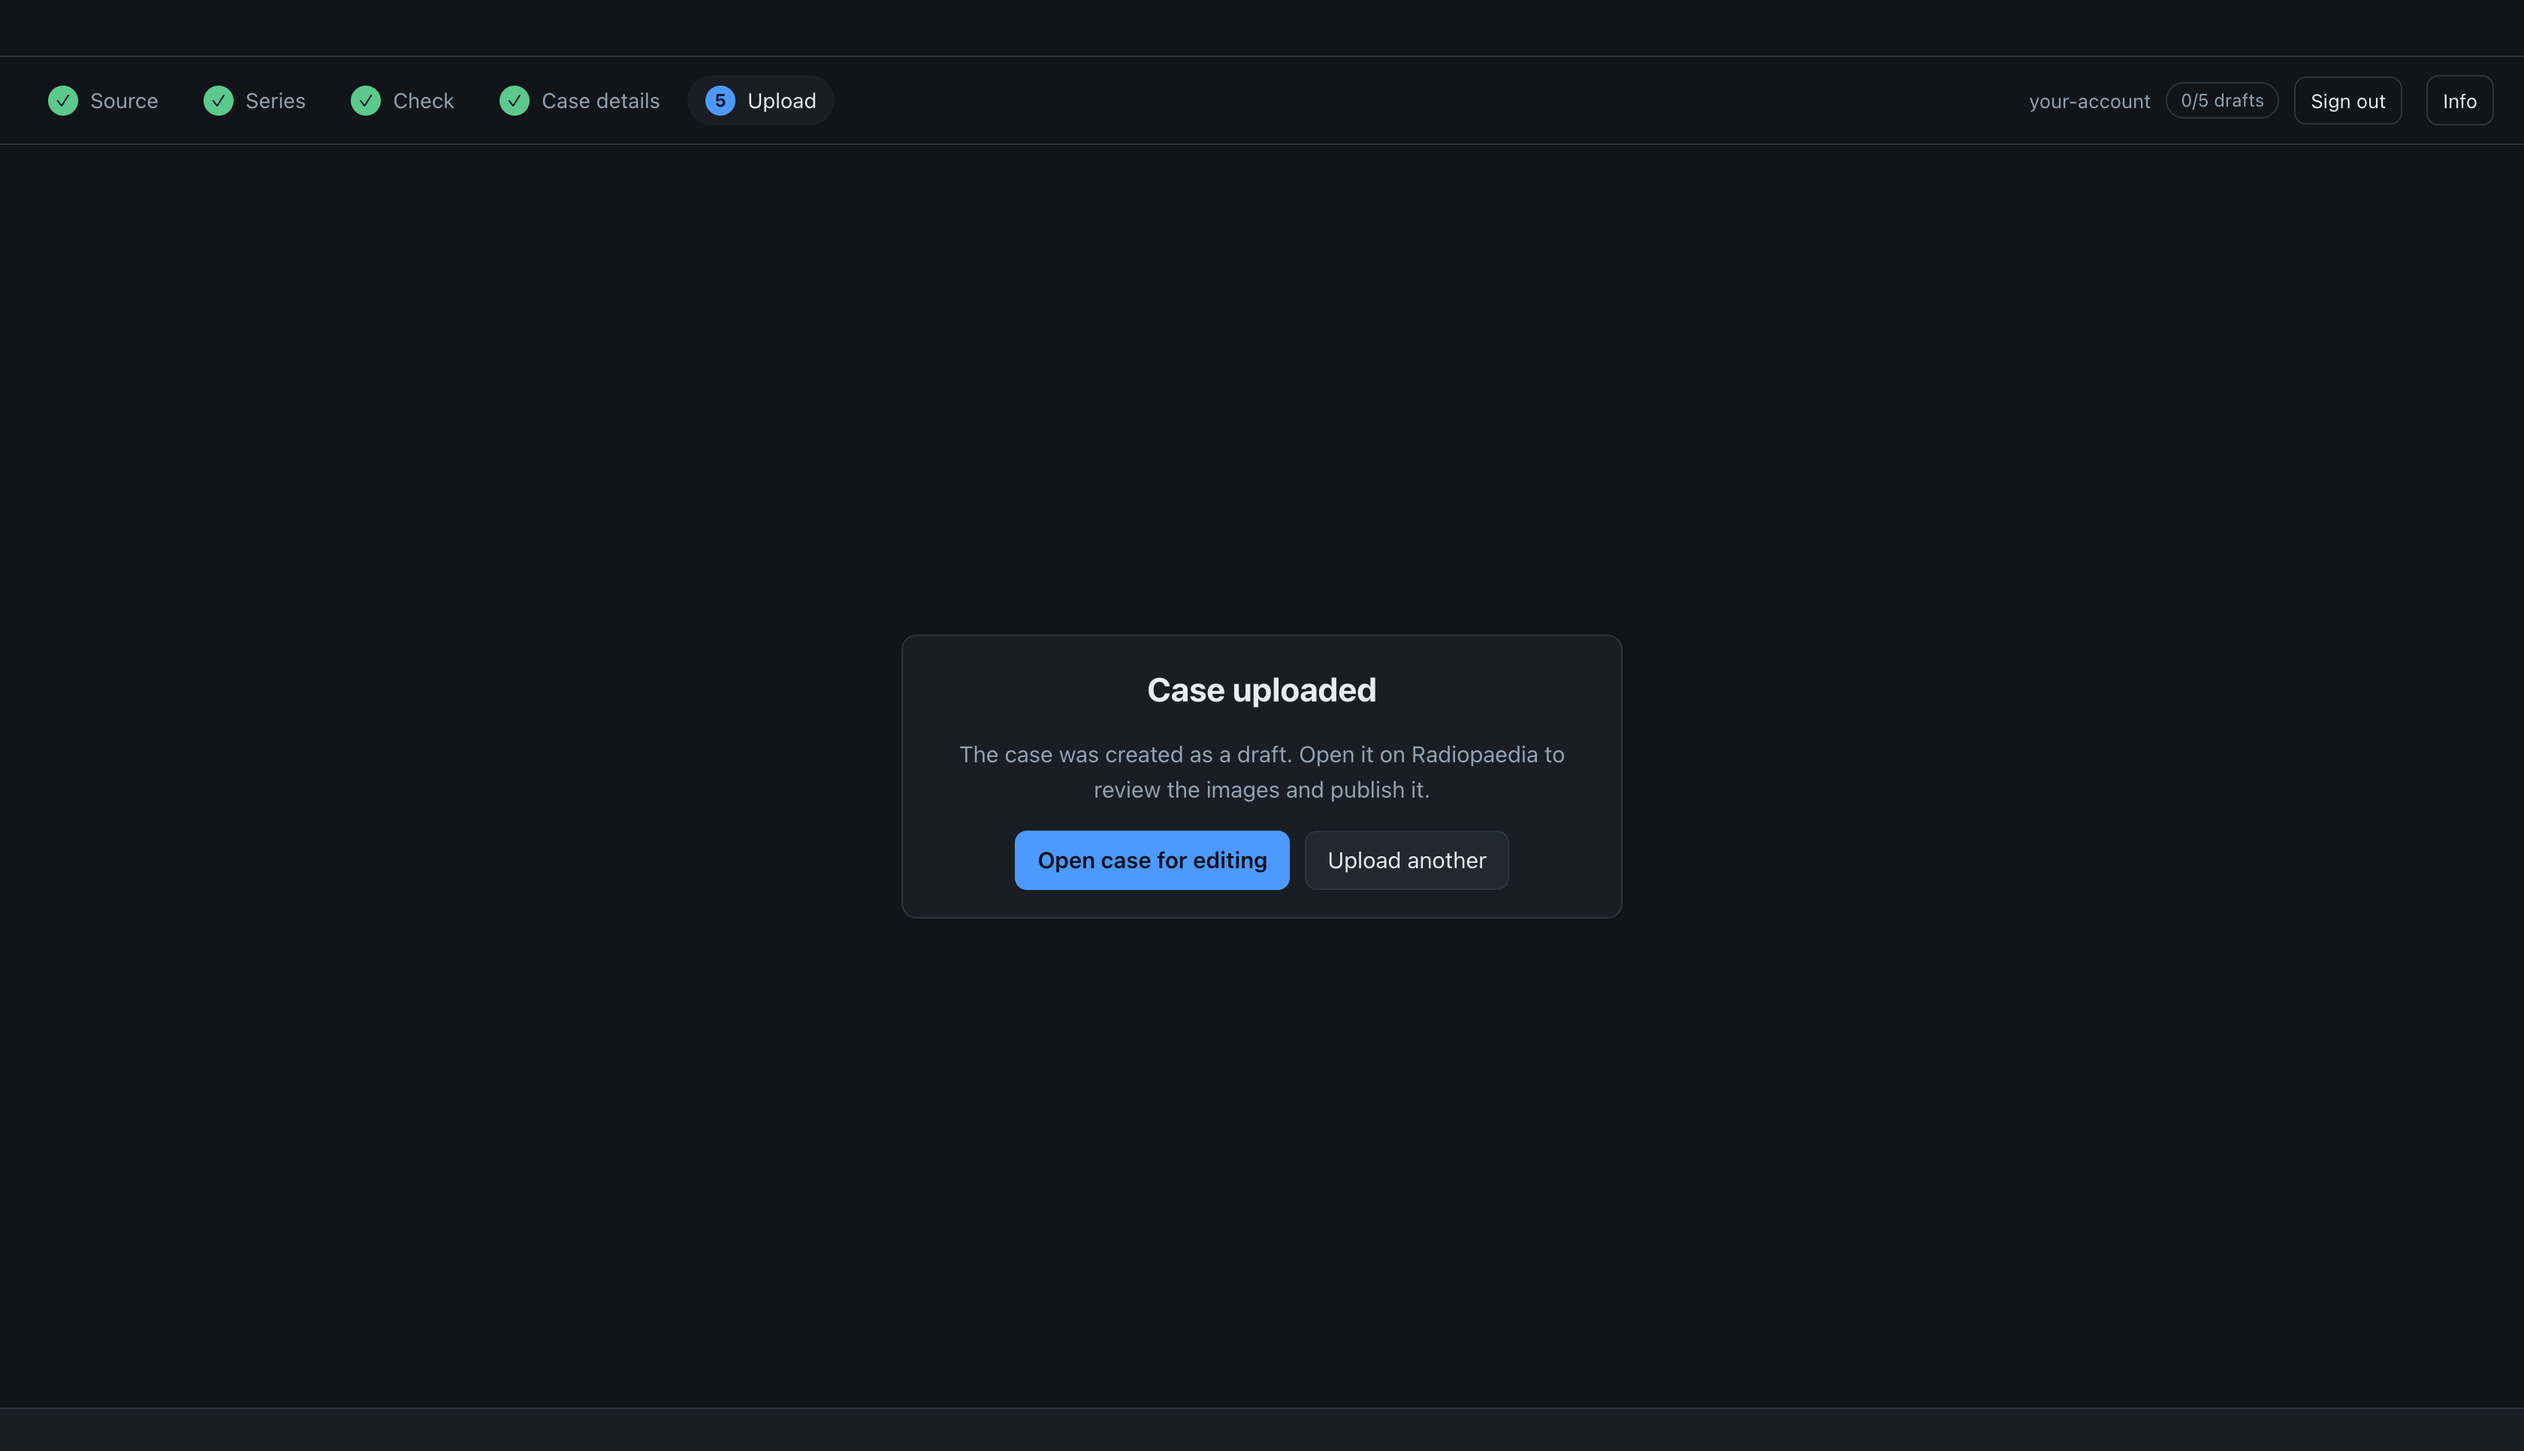
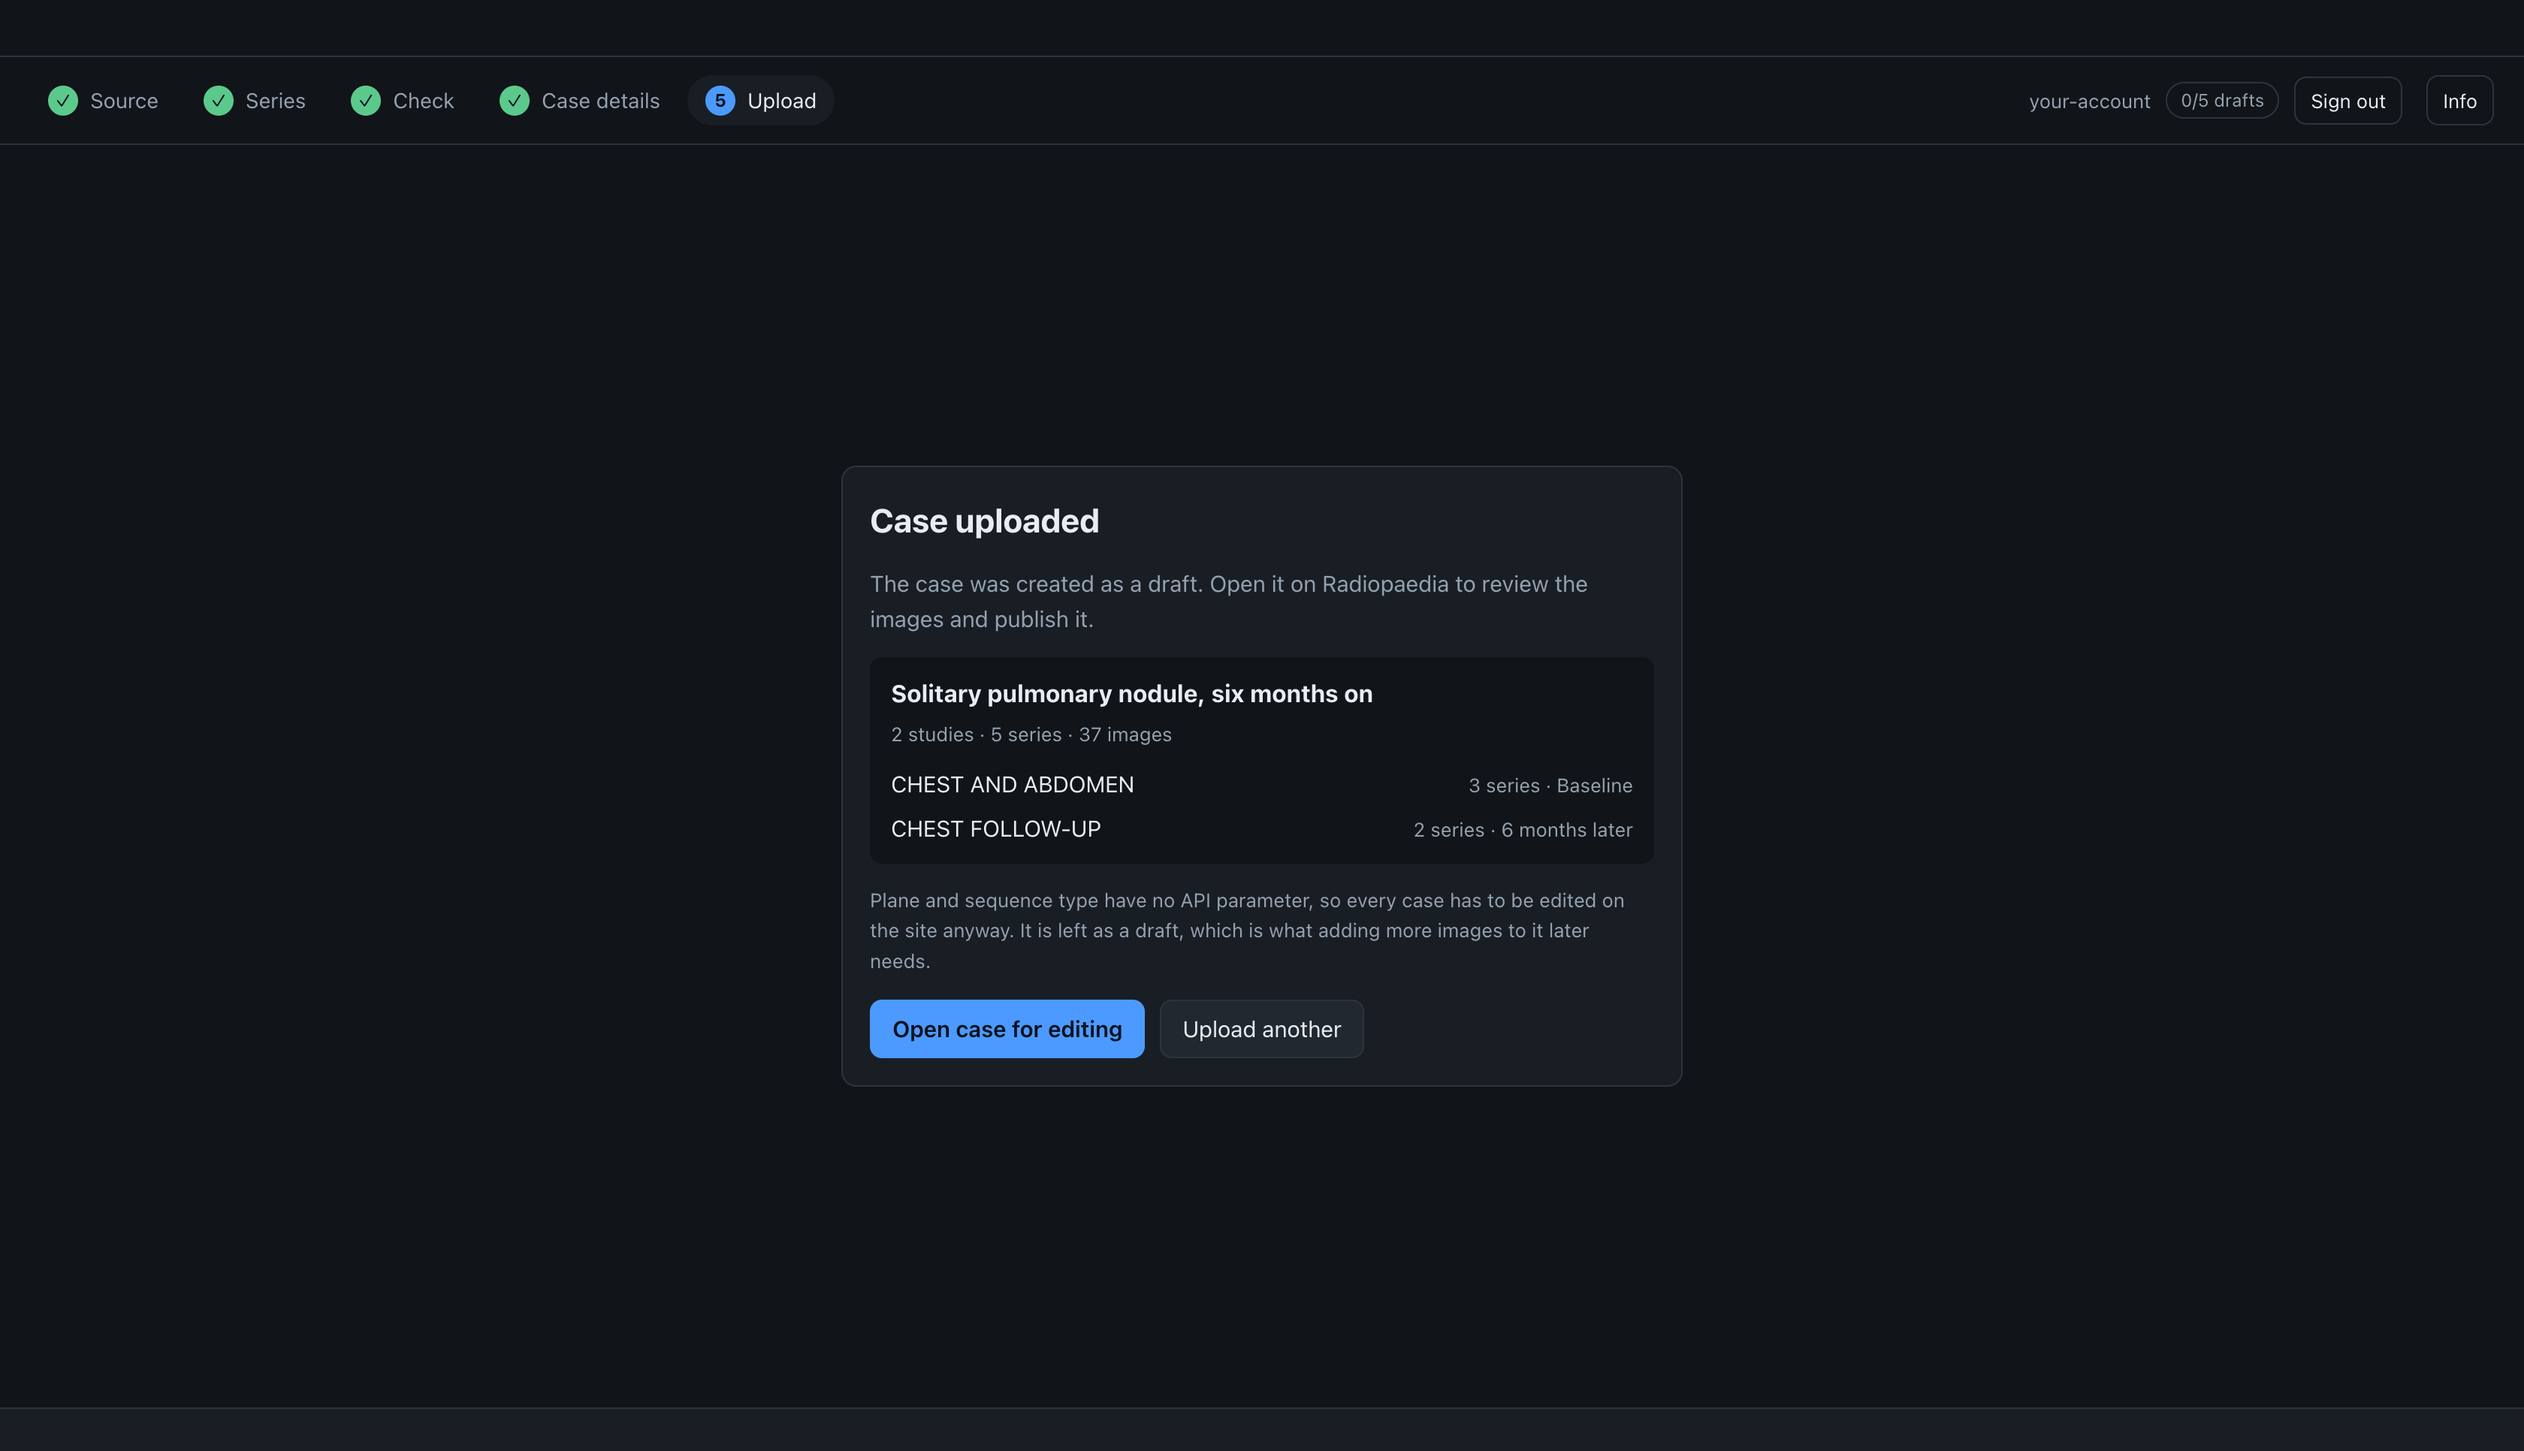
Say what went up on the screen that says it went
"Case uploaded", two buttons, and an otherwise empty window. Somebody who has
just sent the fourth case of an afternoon cannot tell from that which one they
sent, and the app knew: the title, the studies by name with the interval each
carries, and how many series and images went with them.

No byte count and no elapsed time, though both were on the list. A run's last
progress event can arrive after the run's own reply — the two cross the bridge
by different routes and nothing orders them — so a total read at that moment
can be short by a file, and a figure that is nearly right is worse than none.
The counts here come from the selection, which is not going anywhere.

The card is named done-card rather than done: `done` on its own also matches
the completed pills in the header, and a bare rule laid all four of them out
as grids 560px wide.

diff --git a/src/renderer/src/App.tsx b/src/renderer/src/App.tsx
@@ -1,5 +1,15 @@
 import { useEffect, useMemo, useRef, useState } from 'react'
-import type { AppInfo, BurnInFinding, CaseSummary, IngestResult, Progress, Series, Stack, UpdateStatus } from '@shared/types'
+import type {
+  AppInfo,
+  BurnInFinding,
+  CaseSummary,
+  IngestResult,
+  Progress,
+  Series,
+  Stack,
+  Study,
+  UpdateStatus
+} from '@shared/types'
 import { keptCount } from '@shared/selection'
 import { fractionDone } from '@shared/transfer'
 import { describeTransfer } from './transferText'
@@ -481,6 +491,21 @@ export function App(): React.JSX.Element {
   const here: StepKey = confirming || (busy && step === 'review') ? 'check' : step
   const currentIndex = STEPS.findIndex((s) => s.key === here)
 
+  /** Image sets of one study that are going up — what the footer calls series. */
+  const seriesIn = (study: Study): number =>
+    study.series.reduce((n, series) => n + series.stacks.filter((stack) => stack.selected).length, 0)
+
+  /**
+   * What the case is called, for the screen that says what went.
+   *
+   * A new case is called whatever was typed on the form; a draft was named on
+   * Radiopaedia, and the list read on the way in is where that name is.
+   */
+  const uploadedTitle =
+    form.existingCaseId === null
+      ? form.title.trim()
+      : (drafts?.find((draft) => draft.id === form.existingCaseId)?.title ?? `Case ${form.existingCaseId}`)
+
   /**
    * A dialog is up, so the footer behind it is not where the next action is.
    * Read from the same conditions that render them, since a stack id left
@@ -608,14 +633,46 @@ export function App(): React.JSX.Element {
         )}
 
         {step === 'done' && result && (
-          <div className="card" style={{ textAlign: 'center', maxWidth: 480 }}>
+          <div className="card done-card">
             <h1>{form.existingCaseId === null ? 'Case uploaded' : 'Images added'}</h1>
-            <p className="muted">
+            <p className="muted prose">
               {form.existingCaseId === null
                 ? 'The case was created as a draft. Open it on Radiopaedia to review the images and publish it.'
                 : 'The studies were added to the draft. Open it on Radiopaedia to review the images and publish it.'}
             </p>
-            <div style={{ display: 'flex', gap: 10, justifyContent: 'center', marginTop: 16 }}>
+
+            {/* What went, named. The screen used to say only that something
+                had, which is no help to somebody who has just sent the fourth
+                case of an afternoon and wants to know this one was the right
+                one. No byte count and no duration: the figures the app could
+                put here at this moment are not ones it can state honestly. */}
+            <div className="done-list">
+              <h2>{uploadedTitle}</h2>
+              <div className="muted small">
+                {studiesToUpload.length > 1 ? `${studiesToUpload.length} studies · ` : ''}
+                {selectedStacks.length} series · {selectedImageCount} images
+              </div>
+              <ul>
+                {studiesToUpload.map((study, index) => (
+                  <li key={study.id}>
+                    <span className="name">{study.studyDescription ?? 'Study'}</span>
+                    <span className="muted small">
+                      {seriesIn(study)} series
+                      {studiesToUpload.length > 1
+                        ? ` · ${describeInterval(study.intervalDays, index === 0)}`
+                        : ''}
+                    </span>
+                  </li>
+                ))}
+              </ul>
+            </div>
+
+            <p className="muted small prose">
+              Plane and sequence type have no API parameter, so every case has to be edited on the site anyway. It
+              is left as a draft, which is what adding more images to it later needs.
+            </p>
+
+            <div className="done-actions">
               <a href={`${result.url}/edit`} target="_blank" rel="noreferrer">
                 <button className="primary">Open case for editing</button>
               </a>

diff --git a/src/renderer/src/styles.css b/src/renderer/src/styles.css
@@ -118,6 +118,23 @@ button.step:hover { color: var(--text); background: var(--panel); border-color: 
   padding: 18px;
 }
 
+/* The last screen. It named no case, counted nothing and sat in the middle of
+   an empty window, so the one question it could have answered — was that the
+   study I meant to send — it left to the site. */
+/* Named for the card, not the step: `done` on its own also matches the
+   completed pills in the header, which a bare .done rule laid out as grids. */
+.done-card { display: grid; gap: 14px; width: min(560px, 100%); }
+.done-card h1, .done-card p { margin: 0; }
+.done-list { display: grid; gap: 4px; padding: 12px 14px; background: var(--bg); border-radius: 8px; }
+.done-list h2 { margin: 0; }
+.done-list ul { margin: 8px 0 0; padding: 0; list-style: none; display: grid; gap: 6px; }
+/* The name takes what is left; the count keeps its place at the end, since a
+   column of them is what makes two studies comparable at a glance. */
+.done-list li { display: flex; align-items: baseline; justify-content: space-between; gap: 12px; }
+.done-list li .name { min-width: 0; overflow: hidden; text-overflow: ellipsis; white-space: nowrap; }
+.done-list li .muted { flex: none; }
+.done-actions { display: flex; gap: 10px; margin-top: 2px; }
+
 h1 { font-size: 22px; margin: 0 0 6px; }
 h2 { font-size: 16px; margin: 0 0 4px; }
 h3 { font-size: 14px; margin: 0; font-weight: 600; }

diff --git a/docs/guide/upload.md b/docs/guide/upload.md
@@ -102,6 +102,15 @@ in no time otherwise reads as one that has broken.
 
 ![The confirmation](/shots/08-done.png)
 
+The confirmation names what went: the case's title, how many studies, series and images, and
+each study with the series it contributed and the interval it carries. It is the last chance
+to notice that the wrong export was sent, and the screen used to say only that *something*
+had been.
+
+There is no byte count and no duration on it. The last progress event of a run can arrive
+after the run's own reply, so a total read at that moment can be short by one file — and a
+figure that is nearly right is worse here than no figure.
+
 The case is created as a **draft**, so nothing is published until you say so on
 Radiopaedia. The confirmation links straight to the case editor, which is where the plane and
 sequence tags go — the API cannot set those.
